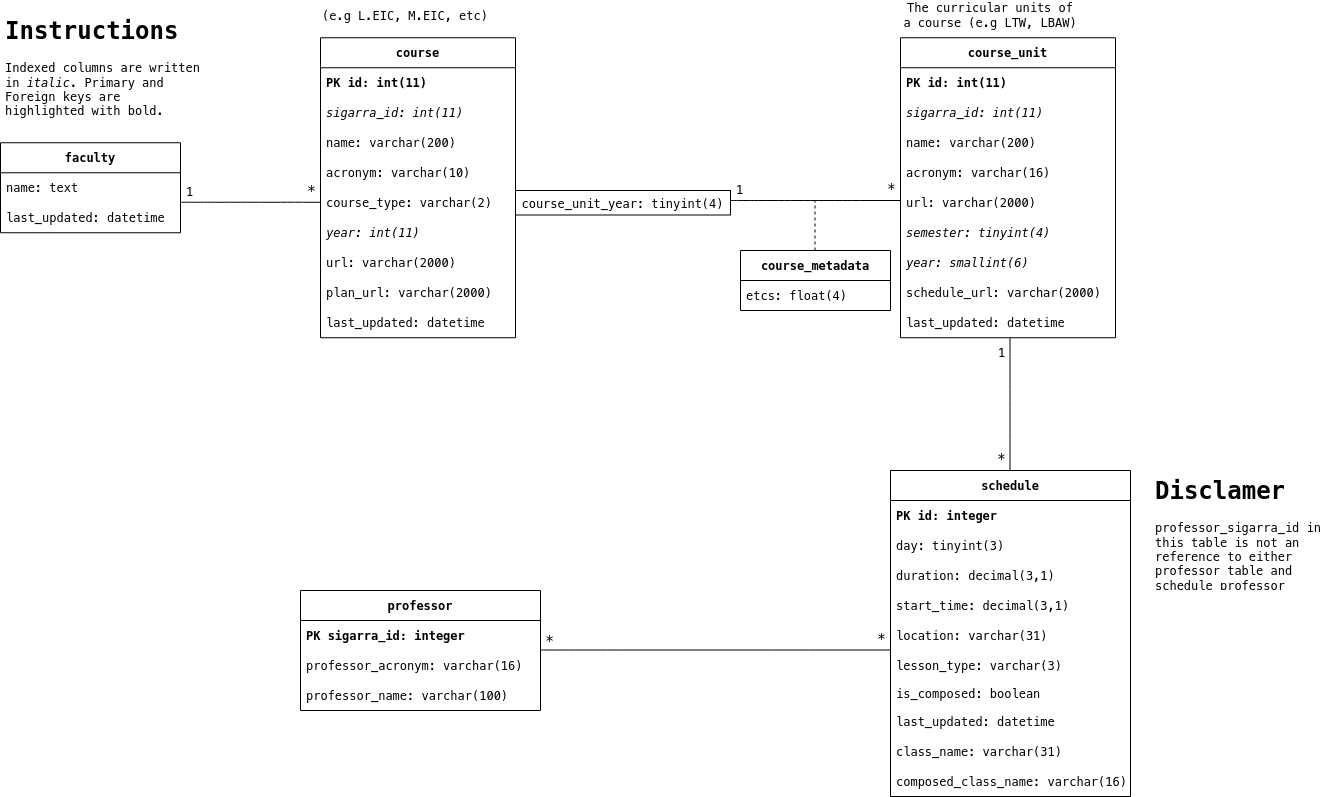
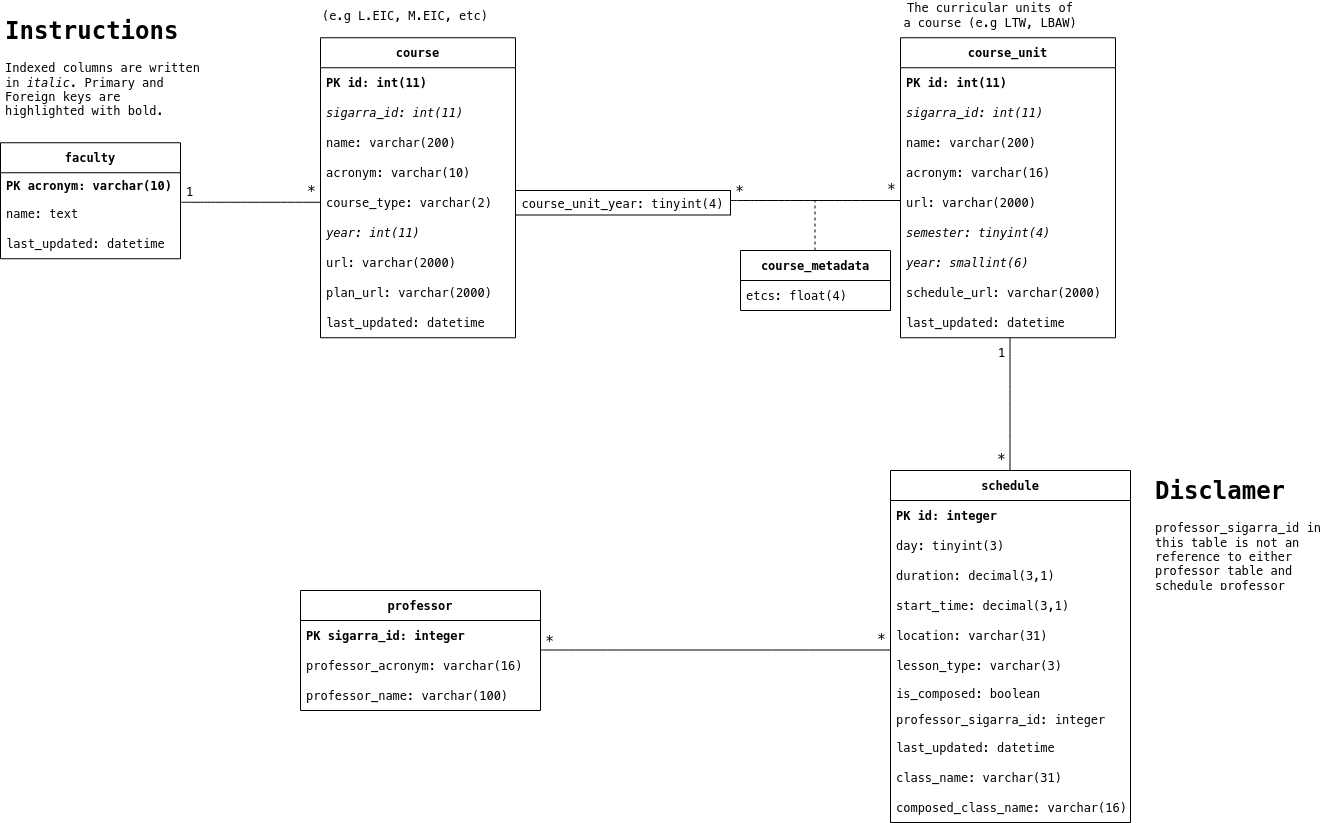
Fix UML

Changed region(s): [[0.0, 0.0, 0.8255, 0.4517], [0.214, 0.5721, 0.8255, 0.9937], [0.8561, 0.5721, 0.9784, 0.7528]]

diff --git a/README.md b/README.md
@@ -99,7 +99,7 @@ root@00723f950c71:/scrapper# scrapy shell "https://sigarra.up.pt/fcnaup/pt/cur_g
 
 ## :triangular_ruler: Database design
 
-![Image](./docs/schema.2.0.png)
+![Image](./docs/schema.2.1.png)
 
 ## :page_with_curl: More information
 
